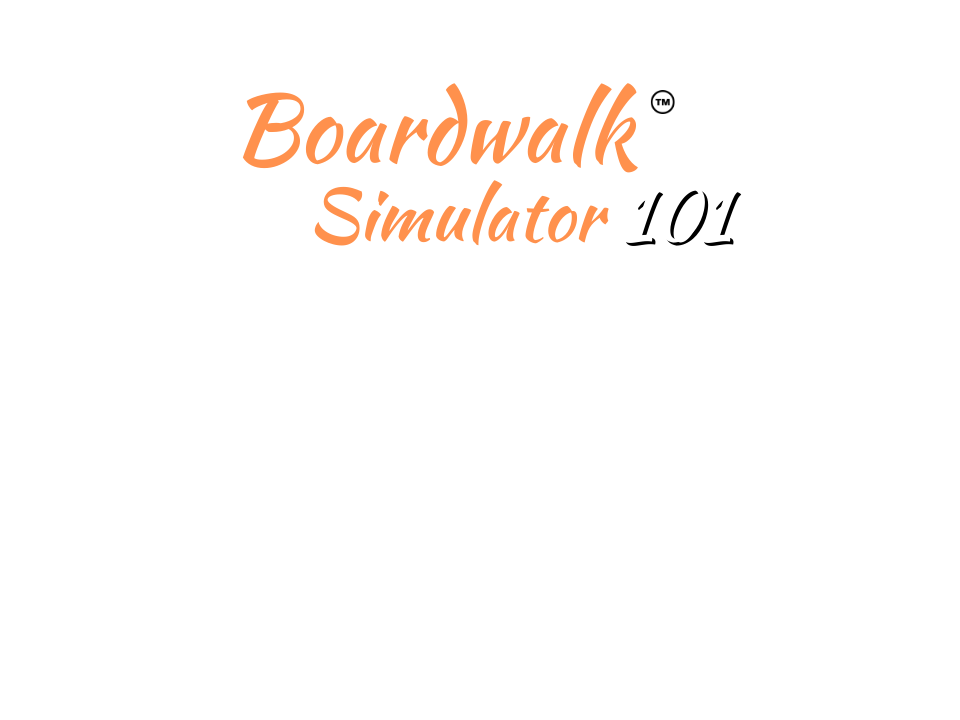
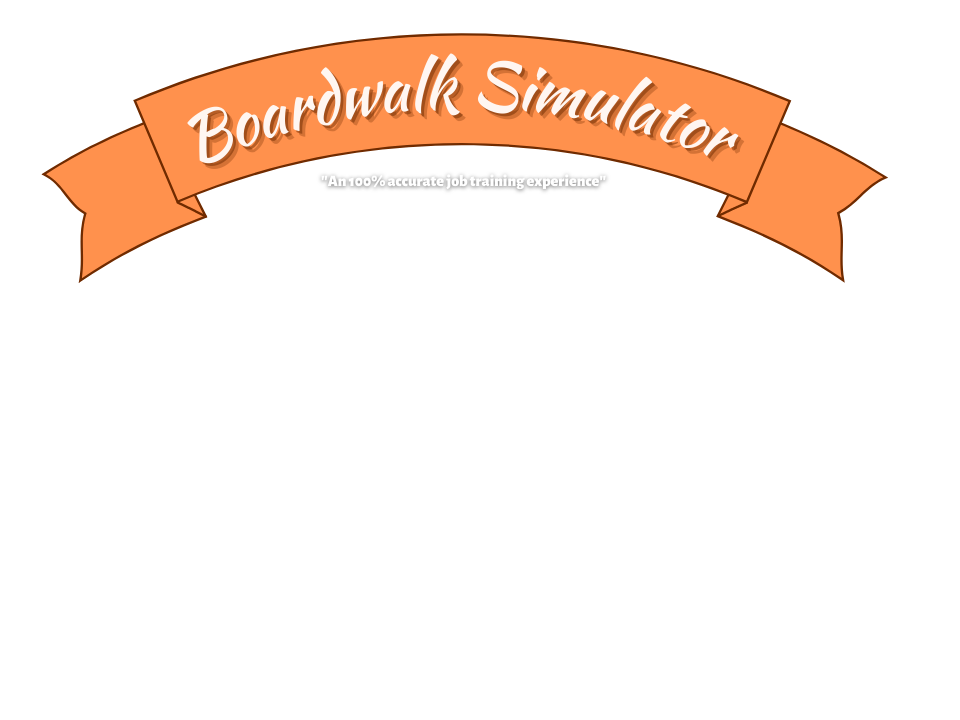
menu scene

Changed region(s): [[0.0312, 0.0306, 0.9375, 0.3972]]

diff --git a/src/scenes/trainingday.js b/src/scenes/trainingday.js
@@ -8,6 +8,7 @@ class trainingday extends Phaser.Scene{
         this.load.image('heightPole', './assets/height_pole.png');
         this.load.image('exitSign', './assets/exit_sign.png');
         this.load.image('enterSign', './assets/enter_sign.png');
+        this.load.image('threeDays', './assets/threeDays.png');
 
         this.load.spritesheet('boss', './assets/boss.png', {frameWidth: 480, frameHeight: 360, startFrame: 0, endFrame: 6});
 
@@ -285,7 +286,7 @@ class trainingday extends Phaser.Scene{
             "Ugh, now where is that pimply teenager I have \nto train.",
             "OH there you are! Welcome to your new job \nas a ride operator at",
             "What was that mumbling about buying your \nlittle brother a birthday present? Yeah I \ndon't care...",
-            "...but I guess you should be able to afford \nit after three days of work. That is, if you \nmanage not to get fired.",
+            "...but I guess you should be able to afford \nit after                     of work. That is, if you \nmanage not to get fired.",
             "Lets get started. Use your mouse to fling \nguests RIGHT to allow them to ride and \nLEFT to deny them.",
             "Good job.",
             "Guests must be taller than this line...",
@@ -303,6 +304,8 @@ class trainingday extends Phaser.Scene{
         this.allowtext = this.add.text(0, 0, 'Allow', arrowConfig).setAlpha(0);
         this.denytext = this.add.text(0, 0, 'Deny', arrow2Config).setAlpha(0);
         this.logo = this.add.sprite(580, 135, 'boardwalkLogo').setAlpha(0);
+        this.threeDays = this.add.sprite(-30, 0, 'threeDays').setOrigin(0,0);
+        this.threeDays.setAlpha(0);
         this.typewriteTextWrapped(bossText[0]);
 
         this.ugh1.play();
@@ -440,60 +443,54 @@ class trainingday extends Phaser.Scene{
     update(){
         //correct and incorrect audio feedback
         if(this.riderNum == 2){ //is too short
-            if(this.testRider.x < 50){
-                if(this.soundplayed == false){
+            if(this.soundplayed == false){
+                if(this.testRider.x < 50){
                     this.correct2.play();
+                    this.soundplayed = true;
                 }
-                this.soundplayed = true;
-            }
-            if(this.testRider.x > 650){
-                if(this.soundplayed == false){
+                if(this.testRider.x > 650){
                     this.incorrect.play();
+                    this.soundplayed = true;
                 }
-                this.soundplayed = true;
             }
         };
-        if(this.riderNum == 3){ //too tall
-            if(this.testRider.x < 50){
-                if(this.soundplayed == false){
-                    this.correct2.play();
-                }
-                this.soundplayed = true;
-            }
-            if(this.testRider.x > 650){
-                if(this.soundplayed == false){
+        if(this.riderNum == 3){ //correct height
+            if(this.soundplayed == false){
+                if(this.testRider.x < 50){
                     this.incorrect.play();
+                    this.soundplayed = true;
                 }
-                this.soundplayed = true;
+                if(this.testRider.x > 650){
+                    this.correct2.play();
+                    this.soundplayed = true;
+                }
+            }
+
+        };
+        if(this.riderNum == 4){ //wrong wristband
+            if(this.soundplayed == false){
+                if(this.testRider.x < 50){
+                    this.correct2.play();
+                    this.soundplayed = true;
+                }
+                if(this.testRider.x > 650){
+                    console.log('correct height');
+                    this.incorrect.play();
+                    this.soundplayed = true;
+                }
             }
         };
-        if(this.riderNum == 4){ //correct height
-            console.log('correct height');
-            if(this.testRider.x < 50){
-                if(this.soundplayed == false){
+        if(this.riderNum == 5){ //right wristband
+            if(this.soundplayed == false){
+                if(this.testRider.x < 50){
                     this.incorrect.play();
+                    this.soundplayed = true;
                 }
-                this.soundplayed = true;
-            }
-            if(this.testRider.x > 650){
-                if(this.soundplayed == false){
-                    this.correct2.play();
+                if(this.testRider.x > 650){
+                    this.correct.play();
+                    this.soundplayed = true;
                 }
-                this.soundplayed = true;
-            }
-        };
-        if(this.riderNum == 5){ //wrong wristband
-            if(this.testRider.x < 50){
-                if(this.soundplayed == false){
-                    this.correct2.play();
-                }
-                this.soundplayed = true;
-            }
-            if(this.testRider.x > 650){
-                if(this.soundplayed == false){
-                    this.incorrect.play();
-                }
-                this.soundplayed = true;
+
             }
         };
         if(this.riderNum == 6){ //correct wristband
@@ -551,7 +548,6 @@ class trainingday extends Phaser.Scene{
 
         //have text advance when space is pressed
         if(currentText.text == bossText[0]){
-            
             //get rid of "press Space to advance"
             //instructions.destroy();
             //go to next phrase
@@ -561,9 +557,7 @@ class trainingday extends Phaser.Scene{
                 //this.oh1.play();
                 this.boss.setFrame(0);
                 this.startdelay2 = true;
-
             }
-
         }else if(currentText.text == bossText[1]){
             this.startdirectionsTimer = true;
             if(this.delay2/60 > 1.5){
@@ -580,6 +574,7 @@ class trainingday extends Phaser.Scene{
         }else if(currentText.text == bossText[2]){
             this.startdirectionsTimer = true;
             if(Phaser.Input.Keyboard.JustDown(keySpace)){
+                this.startdelay2 = true;
                 this.startdirectionsTimer = false;
                 currentText.text = this.typewriteTextWrapped(bossText[3]);
                 //this.sigh1.play();
@@ -587,7 +582,13 @@ class trainingday extends Phaser.Scene{
             }
         }else if(currentText.text == bossText[3]){
             this.startdirectionsTimer = true;
+            console.log(this.delay2);
+            if(this.delay2/60 > 0){
+                this.threeDays.setAlpha(1);
+                this.startdelay2 = false;
+            };
             if(Phaser.Input.Keyboard.JustDown(keySpace)){
+                this.threeDays.setAlpha(0);
                 this.startdirectionsTimer = false;
                 currentText.text = this.typewriteTextWrapped(bossText[4]);
                 this.boss.setFrame(0);

diff --git a/src/scenes/menu.js b/src/scenes/menu.js
@@ -7,7 +7,11 @@ class menu extends Phaser.Scene{
         this.load.image('titleText', './assets/titleText.png');
         this.load.image('boardwalkTitle', './assets/boardwalkTitle.png');
         this.load.image('background', './assets/rollercoaster_background_day1.png');
-        this.load.image('menuPanel', './assets/menuPanel.png')
+        this.load.image('menuPanel', './assets/menuPanel.png');
+        this.load.image('startText', './assets/startText.png');
+        this.load.image('happyBoss', './assets/happyBoss.png');
+        this.load.image('rainbow', './assets/rainbow.png');
+        this.load.image('sparkle', './assets/sparkle.png');
         this.load.spritesheet('redButton', './assets/redButton.png', {frameWidth: 768, frameHeight: 1024, startFrame: 0, endFrame: 1});
 
         //loading all the audio
@@ -30,11 +34,48 @@ class menu extends Phaser.Scene{
             position:[0,3],
             angularVelocity:1,
         };
-        this.background = this.add.sprite(0, 0, 'background').setOrigin(0,0);
-        this.titleText = this.add.image(0, 0, 'boardwalkTitle').setOrigin(0, 0);
+        var background = this.add.sprite(0, 0, 'background').setOrigin(0,0);
+        //sparkles
+        var textures = this.textures;
+        var origin = background.getTopLeft();
+        var titleTextSource = {
+            getRandomPoint: function (vec)
+            {
+                do
+                {
+                    var x = Phaser.Math.Between(0, 750); //titleText.width-1
+                    var y = Phaser.Math.Between(0, 300); //titleText.height -1
+                    var pixel = textures.getPixel(x, y, 'background');
+                } while (pixel.alpha < 255);
+        
+                return vec.setTo(x + origin.x, y + origin.y);
+            }
+        };
+        
+        var particles = this.add.particles('sparkle');
+        
+        particles.createEmitter({
+            x: 120,
+            y: 120,
+            lifespan: 4400,
+            gravityY: 10,
+            scale: { start: 0, end: 0.1, ease: 'Quad.easeOut' },
+            alpha: { start: 1, end: 0.25, ease: 'Quad.easeIn' },
+            //blendMode: 'ADD',
+            emitZone: { type: 'random', source: titleTextSource }
+        });
+        var titleText = this.add.image(30, -20, 'boardwalkTitle').setOrigin(0, 0);
 
-        this.controlpanel = this.add.sprite(450, 290, 'menuPanel');
+
+        this.happyBoss = this.add.sprite(500, 350, 'happyBoss');
+        this.happyBoss.setScale(1.2);
+
+        var rainbow = this.add.image(770, 320, 'rainbow').setScale(0.45);
+        var rainbow2 = this.add.sprite(220, 320, 'rainbow').setScale(0.45);
+        this.controlpanel = this.add.sprite(480, 310, 'menuPanel');
         this.controlpanel.setScale(1.2);
+        this.startText = this.add.sprite(500, 575, 'startText');
+        this.startText.setScale(0.6);
 
         //if the mouse is hovering over the down button
         this.startButtonHover = false;
@@ -48,9 +89,9 @@ class menu extends Phaser.Scene{
         
 
         //start button glow when hovered over
-        this.startButton = this.physics.add.sprite(470, 640, 'redButton').setInteractive();
+        this.startButton = this.physics.add.sprite(490, 650, 'redButton').setInteractive();
         this.startButton.body.allowGravity =false;
-        this.startButton.setScale(0.15);
+        this.startButton.setScale(0.17);
         this.startButton.body.setSize(300, 140, 0.1, 1500);
         this.startButton.on("pointerover", () => {
             this.startButton.setFrame(1);
@@ -62,6 +103,8 @@ class menu extends Phaser.Scene{
             this.startButton.setFrame(0);
             this.startButtonHover = false;
         });
+
+
 
     }
     update(){

diff --git a/src/scenes/lose.js b/src/scenes/lose.js
@@ -15,13 +15,13 @@ class lose extends Phaser.Scene{
     create(){
         this.pointer = this.input.activePointer;
         this.background = this.add.tileSprite(0, 0, 960, 720, 'redBackground').setOrigin(0, 0);
-        this.boss = this.add.sprite(450, 510, 'firedBoss');
+        this.firedboss = this.add.sprite(450, 510, 'firedBoss');
         this.firedText = this.add.sprite(0, 0, 'firedText').setOrigin(0,0);
         this.startoverButton = this.add.sprite(850, 670, 'startoverButton').setInteractive();
         this.startoverButton.setScale(0.35);
         this.startoverButtonHover = false;
-        this.boss.setFrame(6);
-        this.boss.setScale(2); 
+        this.firedboss.setFrame(6);
+        this.firedboss.setScale(2); 
         this.deathmetal = this.sound.add('deathmetal');
         this.deathmetal.play();
 
@@ -32,7 +32,7 @@ class lose extends Phaser.Scene{
         function randomDecimil(mn,mx){
             return Math.random() * (mx - mn) + mn
         }
-        this.boss.x = this.boss.x + randomDecimil(-1, 1);
+        this.firedboss.x = this.firedboss.x + randomDecimil(-1, 1);
 
         this.startoverButton.on("pointerover", () => {
             this.startoverButton.setFrame(1);
